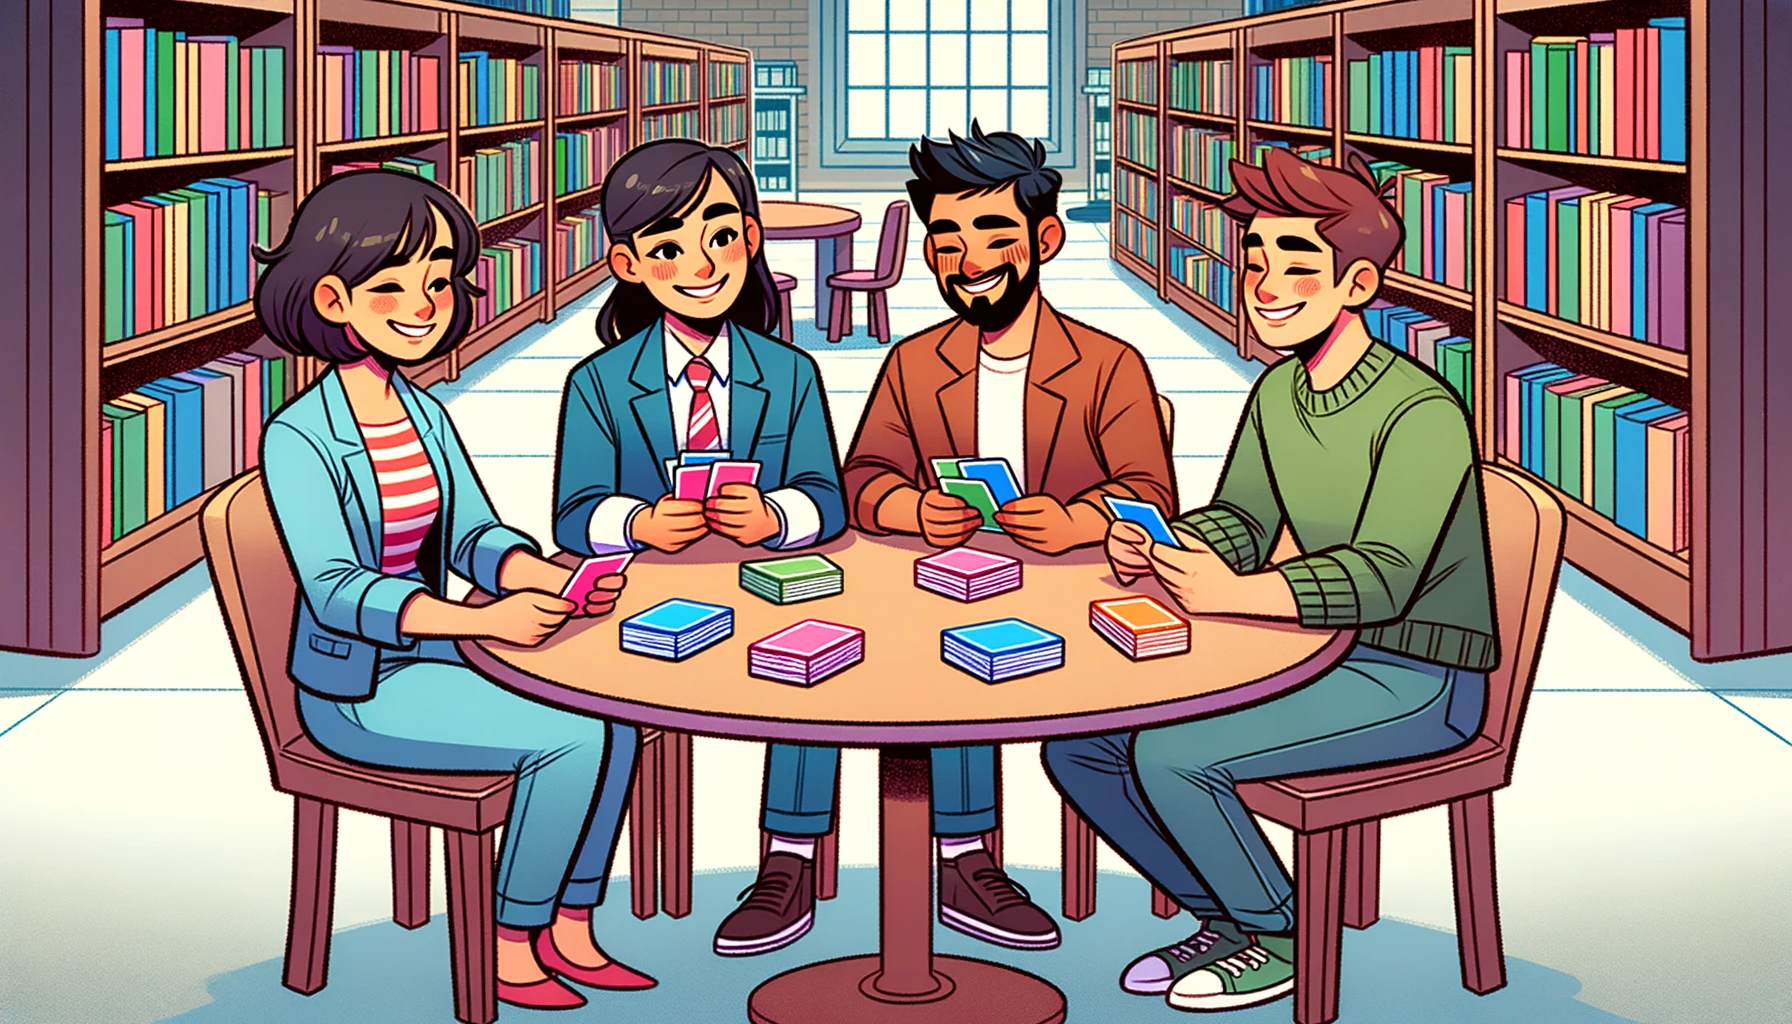
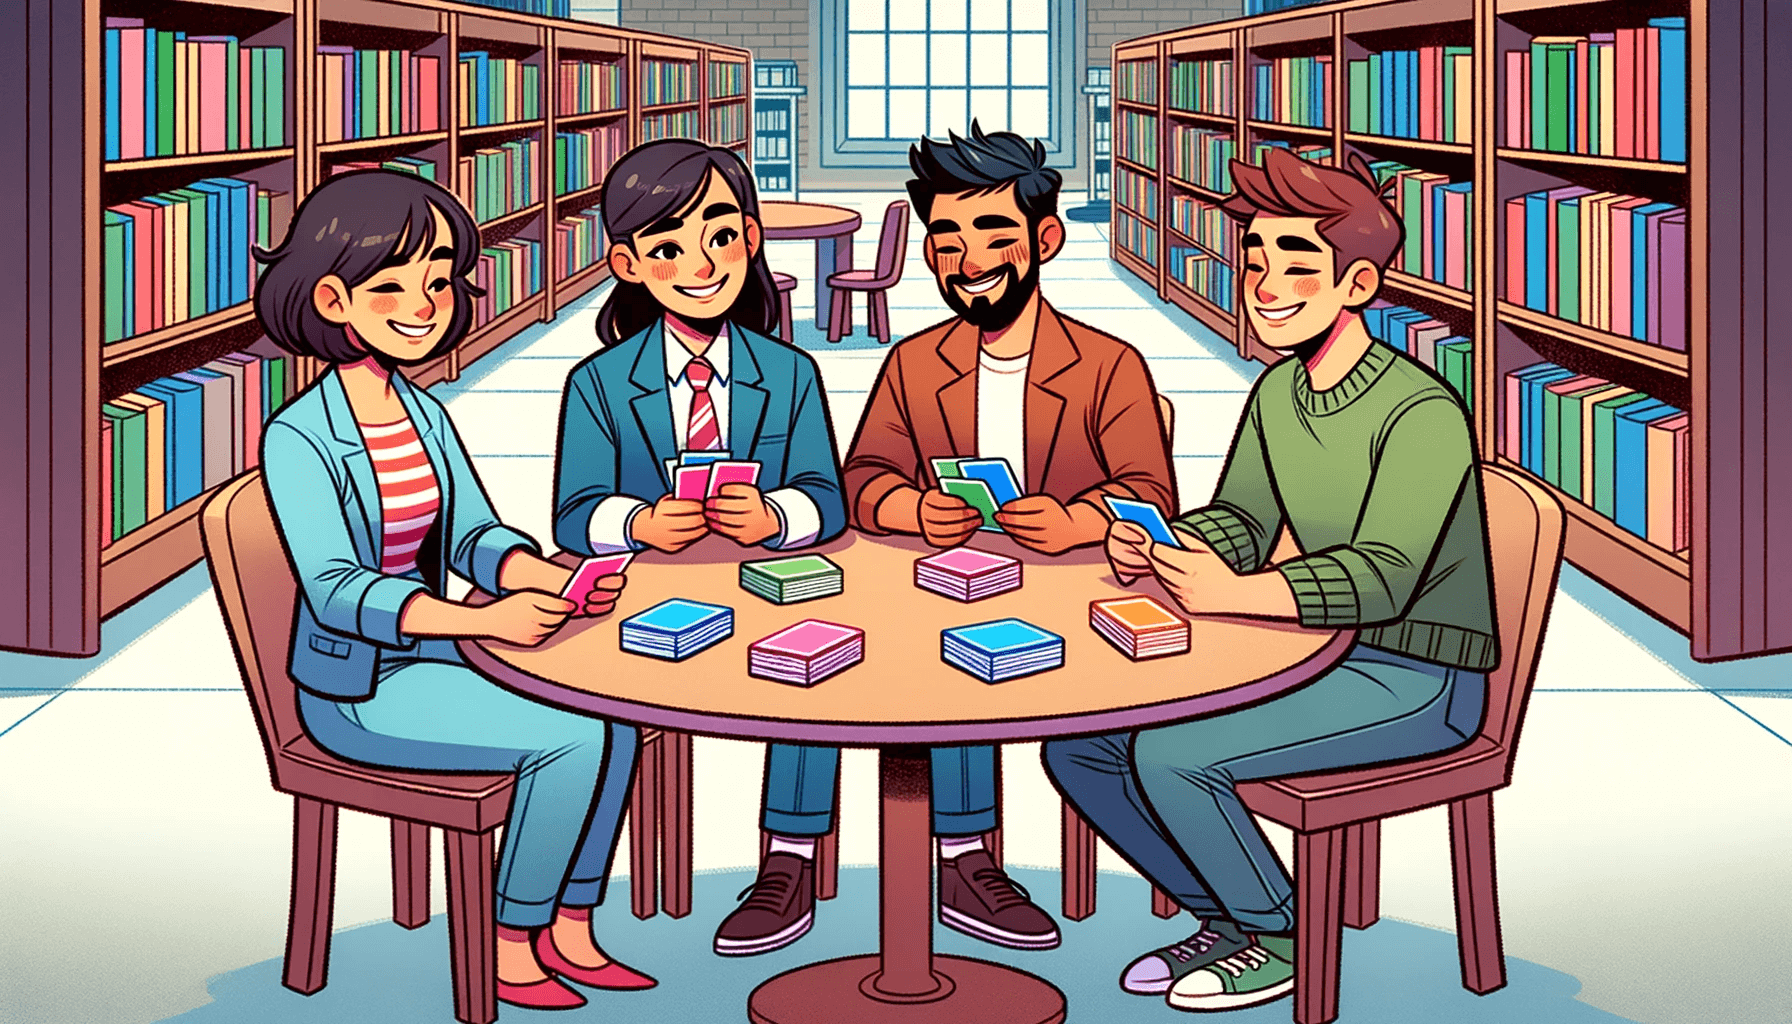
reduced the size of img and changed to scss

diff --git a/client/src/routes/Home.jsx b/client/src/routes/Home.jsx
@@ -2,8 +2,8 @@
 import React, { useRef } from 'react';
 import { Button } from 'react-bootstrap';
 import { Link } from 'react-router-dom';
-import '../assets/styles/home.css';  
-import '../assets/styles/BackgroundStyles.css'
+import '../assets/styles/home.scss';  
+import '../assets/styles/BackgroundStyles.scss'
 import BackgroundChanger from '../components/BackgroundChanger';
 
 const Home = () => {
